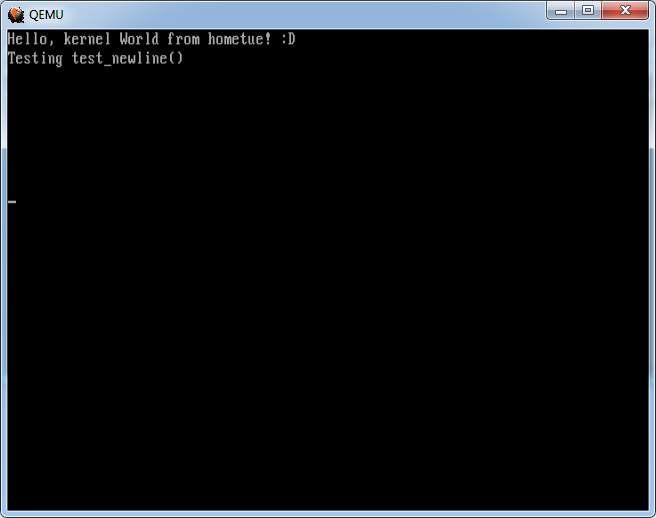
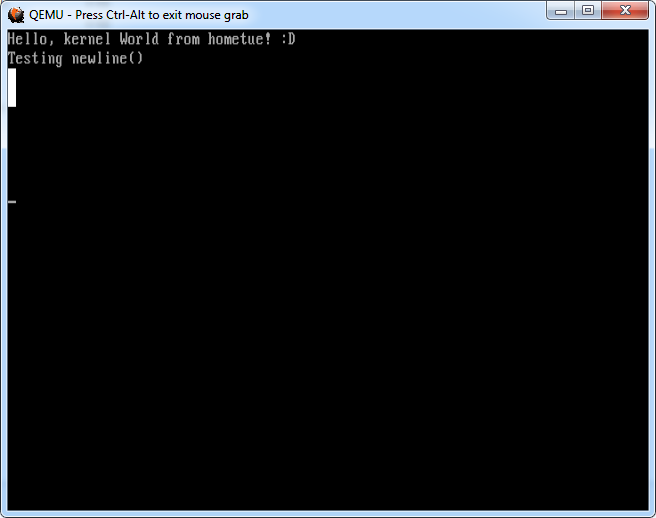
New screenshot. Also, I made the detect functions output char instead of const char*, though it still brings me nowhere...

diff --git a/kernel.c b/kernel.c
@@ -134,10 +134,16 @@ void terminal_writestring(const char* data)
 	}
 }
 
-const unsigned char detect_number_hardrive()
+unsigned char detect_number_harddrive()
 {
-	const unsigned char number_hardrive=inb(0x0475);
-	return number_hardrive;
+	unsigned char number_harddrive=inb(0x0475);
+	return number_harddrive;
+}
+
+unsigned char detect_display_mode()
+{
+	unsigned char display_mode=inb(0x0449);
+	return display_mode;
 }
 
 void sound_1()
@@ -155,5 +161,7 @@ void kernel_main()
 	sound_1();
 	terminal_writestring("Hello, kernel World from hometue! :D\n");
 	terminal_writestring("Testing newline()\n");
-	terminal_writestring(detect_number_hardrive());
+	terminal_putchar(detect_number_harddrive());
+	terminal_writestring("\n");
+	terminal_putchar(detect_display_mode());
 }
